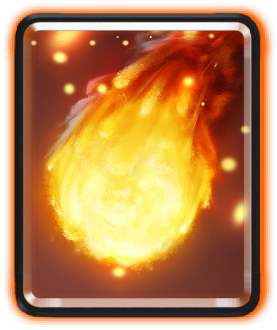
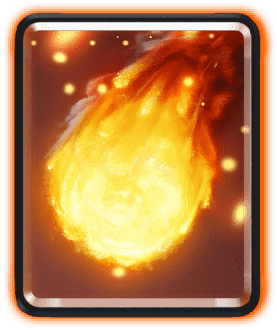
Improve design + add footer + compress images

diff --git a/style.css b/style.css
@@ -1,1 +1,1 @@
-@font-face{font-family:"supercell";src:url("../supercell.ttf")}body{background-color:#3498db !important}.deck-builder__select-mode label{display:block}.deck-builder__deck-it{width:30vw}header{background-color:#f1c40f;box-shadow:0 4px 8px}header h1{font-family:"Poiret One",cursive;font-size:6em;color:#3498db;text-shadow:-2px -2px 4px #000}footer{background-color:#f1c40f;box-shadow:0 4px 8px}.deck-builder__deck{border-radius:2em;box-shadow:2px 2px 9px;padding:1em;background-color:#f1c40f}.deck-builder__options{font-family:"supercell",cursive}/*# sourceMappingURL=style.css.map */
+@font-face{font-family:"supercell";src:url("../supercell.ttf")}body{background-color:#3498db !important;position:relative}.deck-builder__select-mode label{display:block}.deck-builder__deck-it{width:30vw}header{background-color:#f1c40f;box-shadow:0 4px 8px}header h1{font-family:"Poiret One",cursive;font-size:6em;color:#3498db;text-shadow:-2px -2px 4px #000}footer{background-color:#f1c40f;box-shadow:0 -4px 8px;position:absolute;bottom:0;width:100%}footer p{margin:0;font-family:"Poiret One",cursive;font-weight:bold}footer a{color:#000}footer a:hover{color:#3498db}.deck-builder__deck{border-radius:2em;box-shadow:2px 2px 9px;padding:1em;background-color:#f1c40f}.deck-builder__options{font-family:"supercell",cursive}.deck-builder__deck-it{margin-bottom:5em}/*# sourceMappingURL=style.css.map */

diff --git a/index.html b/index.html
@@ -13,6 +13,8 @@
 	<link rel="stylesheet" href="https://stackpath.bootstrapcdn.com/bootstrap/4.4.1/css/bootstrap.min.css" integrity="sha384-Vkoo8x4CGsO3+Hhxv8T/Q5PaXtkKtu6ug5TOeNV6gBiFeWPGFN9MuhOf23Q9Ifjh" crossorigin="anonymous">
 	<!-- Google Font -->
 	<link href="https://fonts.googleapis.com/css2?family=Poiret+One&display=swap" rel="stylesheet">
+	<!-- Font Awesome -->
+	<script src="https://kit.fontawesome.com/25774bd025.js" crossorigin="anonymous"></script>
 	<script defer src="./index.js"></script>
 </head>
 
@@ -83,7 +85,18 @@
 
 		</section>
 	</main>
-	<footer>
+	<footer class="container-fluid">
+		<div class="row">
+			<p class="col text-center mt-4">
+				developed by Florian Magalhaes
+			</p>
+		</div>
+		<div class="row text-center mb-1">
+			<div class="col">
+				<a href="https://twitter.com/Flomgls"><i class="fab fa-twitter fa-2x mx-2"></i></a>
+				<a href="https://github.com/Flo-mgls"><i class="fab fa-github-alt fa-2x mx-2"></i></a>
+			</div>
+		</div>
 	</footer>
 </body>
 </html>

diff --git a/sass/layouts/_footer.scss b/sass/layouts/_footer.scss
@@ -1,4 +1,18 @@
 footer{
-	background-color: $header-color-bg;
-	box-shadow: 0 4px 8px; 
+	background-color: $main-color;
+	box-shadow: 0 -4px 8px;
+	position: absolute;
+	bottom: 0;
+	width: 100%;
+	p{
+		margin: 0;
+		font-family: $heading-font;
+		font-weight: bold;
+	}
+	a{
+		color: black;
+		&:hover{
+			color: #3498db;
+		}
+	}
 }

diff --git a/sass/layouts/_header.scss b/sass/layouts/_header.scss
@@ -1,10 +1,10 @@
 header{
-	background-color: $header-color-bg;
+	background-color: $main-color;
 	box-shadow: 0 4px 8px; 
 	h1{
-		font-family: $header-heading-font;
+		font-family: $heading-font;
 		font-size: 6em;
-		color: $header-heading-color;
+		color: $second-color;
 		text-shadow: -2px -2px 4px black;
 	}
 }

diff --git a/sass/utils/_variables.scss b/sass/utils/_variables.scss
@@ -1,5 +1,3 @@
-$main-color-bg: #3498db;
-$header-color-bg: #f1c40f;
-$header-heading-color: #3498db;
-$header-heading-font: 'Poiret One', cursive;
-$deck-color-bg: #f1c40f;
+$main-color: #f1c40f;
+$second-color: #3498db;
+$heading-font: 'Poiret One', cursive;

diff --git a/sass/layouts/_deck.scss b/sass/layouts/_deck.scss
@@ -1,9 +1,8 @@
 .deck-builder{
 	&__deck{
-		
 		border-radius: 2em;
 		box-shadow: 2px 2px 9px;
 		padding: 1em;
-		background-color: $deck-color-bg;
+		background-color: $main-color;
 	}
 }

diff --git a/sass/base/_base.scss b/sass/base/_base.scss
@@ -3,5 +3,6 @@
 	src: url("../supercell.ttf");
 }
 body{
-	background-color: $main-color-bg !important;
+	background-color: $second-color !important;
+	position: relative;
 }

diff --git a/sass/layouts/_options.scss b/sass/layouts/_options.scss
@@ -2,4 +2,7 @@
 	&__options{
 		font-family: "supercell", cursive;
 	}
+	&__deck-it{
+		margin-bottom: 5em;
+	}
 }
